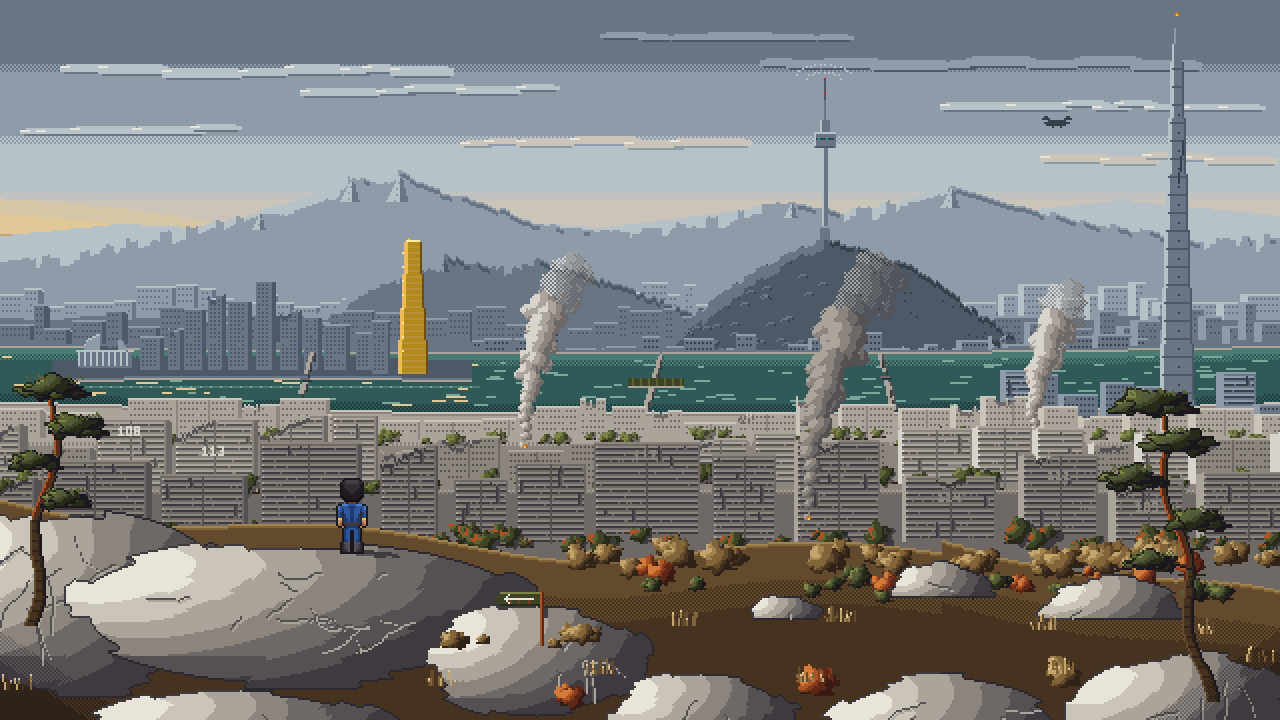
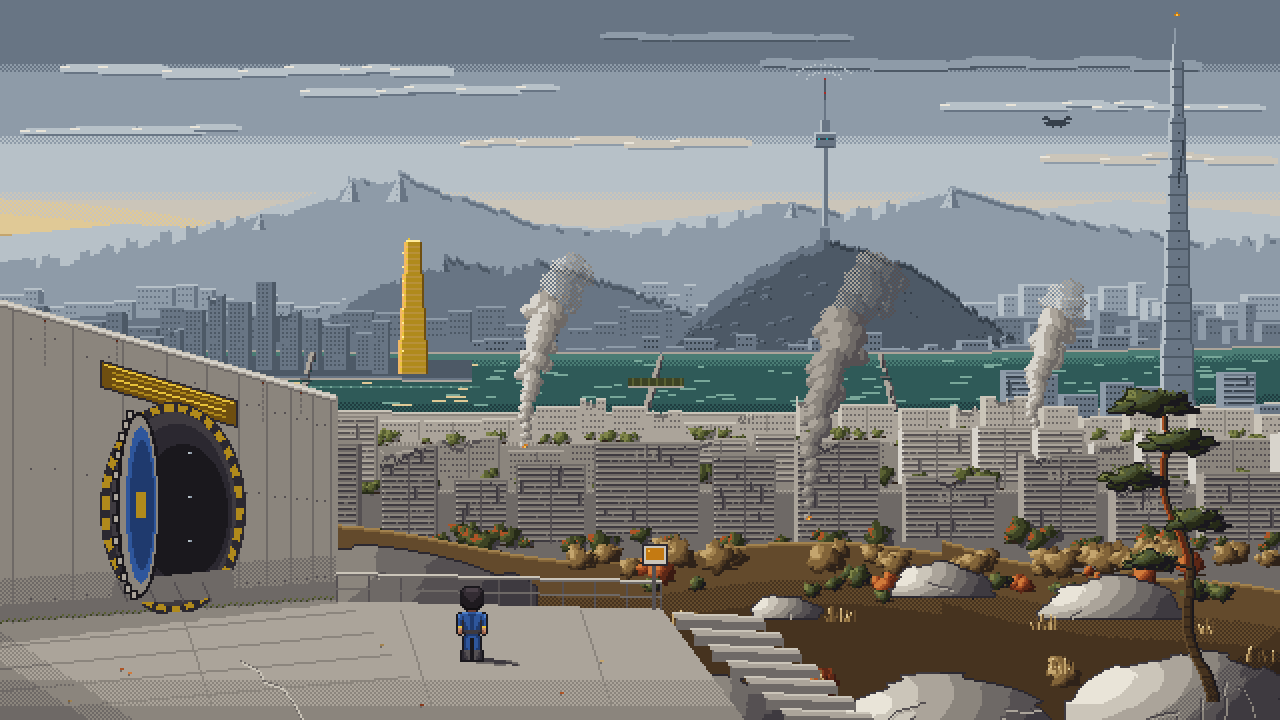
볼트 문 글자가 문과 함께 돌도록 수정, 대표 그림에 볼트 출구 추가
- 톱니 방폭문: 8프레임 반복 회전(톱니 1칸 30도, 글자는 제자리로 튐)을
  버리고 1회 개방 동작으로 바꿈. 굴러간 거리/반지름만큼 판 전체(톱니·볼트·
  위험 띠·S-07 글자)가 같은 각도로 돈다. 개방 섬광 GIF도 같은 각도를 씀.
- 대표 그림: 방금 나온 S-07 출구를 왼쪽 앞에 배치(SD-09a L-R01-01).
  콘크리트 옹벽(거푸집 이음·폼타이 구멍·물때·이끼), 원형 정문과 위험 띠,
  안쪽으로 굴러 비킨 톱니 문, 동판, 데크(신축 이음·균열·낙엽·옹벽 그늘),
  끝단 난간, 비탈로 내려가는 계단, 출구 점검표 단말. 주인공은 데크 끝.

Claude-Session: https://claude.ai/code/session_01AB2Pu8KtgEfTfn2XzBJpW9

Changed region(s): [[0.0, 0.3972, 0.6875, 1.0]]

diff --git a/art/tools/keyart.py b/art/tools/keyart.py
@@ -644,6 +644,121 @@ def foreground(cv):
     return top_rock
 
 
+def vault_exit(cv):
+    """The S-07 gate the protagonist just walked out of (SD-09a L-R01-01 ②): concrete retaining wall with the round
+    portal, the gear door rolled aside inside it, the bronze plate, the 6x4 deck with its far-edge railing,
+    12 steps down the slope and the exit checklist terminal. Seen obliquely from behind-left; sun from the west."""
+    from PIL import ImageDraw
+    d = ImageDraw.Draw(cv.img)
+    T = lambda t: C(t)
+    # retaining wall (옹벽): near and tall at the left, receding to the right
+    wall = [(0, 150), (168, 198), (168, 300), (0, 312)]
+    d.polygon(wall, fill=T("P06"))
+    x, step = 6, 30.0
+    while x < 168:                                          # formwork panel joints, closer together as they recede
+        top = 150 + x * 48 / 168
+        bot = 312 - x * 12 / 168
+        d.line([x, top + 4, x, bot], fill=T("P05"))
+        for k in range(3):                                   # form-tie holes in each panel
+            ty = top + 18 + k * (bot - top - 30) / 2
+            for hx in (x + step * 0.3, x + step * 0.7):
+                if hx < 166:
+                    cv.put(hx, ty, "P04")
+        x += step; step *= 0.86
+    for xx in range(0, 168):                                 # damp, darker lower third
+        bot = 312 - xx * 12 / 168
+        for yy in range(int(bot) - 22, int(bot)):
+            if cv.get(xx, yy)[:3] == P.rgb("P06") and ((xx + yy) % 2 or yy > bot - 10):
+                cv.put(xx, yy, "P05")
+    for xx in range(0, 168):                                 # cap: sunlit top edge + shadow under the lip
+        ty = 150 + xx * 48 / 168
+        cv.put(xx, ty, "P08"); cv.put(xx, ty + 1, "R01.a"); cv.put(xx, ty + 2, "P07"); cv.put(xx, ty + 3, "P05")
+    for sx, ln in ((22, 40), (58, 26), (131, 34), (150, 20)):          # rust/water streaks from the cap
+        ty = 150 + sx * 48 / 168 + 4
+        for k in range(ln):
+            if k % 3 != 2:
+                cv.put(sx, ty + k, "P05" if k < ln * 0.6 else "P06")
+        cv.put(sx, ty, "P24")
+    for xx in range(0, 168, 3):                              # moss at the foot
+        by = 312 - xx * 12 / 168
+        cv.put(xx, by - 1, "P29"); cv.put(xx + 1, by - 2, "P30")
+    # bronze plate '서울 볼트 S-07 관악 / 한결건설 시공'
+    d.polygon([(50, 180), (118, 200), (118, 213), (50, 193)], fill=T("P47"), outline=T("P02"))
+    d.line([(52, 182), (116, 201)], fill=T("P49"))
+    for k in range(3):
+        d.line([(56, 186 + k * 3), (112, 202 + k * 3)], fill=T("P48") if k != 1 else T("P49"))
+    # round portal (oblique ellipse) with the hazard ring, dark tunnel, lamps inside
+    cx, cy, rx, ry = 86, 254, 31, 48
+    d.ellipse([cx - rx - 5, cy - ry - 5, cx + rx + 5, cy + ry + 5], fill=T("P02"))
+    for a in range(0, 360, 12):                              # hazard chevrons
+        ra, rb = math.radians(a), math.radians(a + 6)
+        d.polygon([(cx + (rx + 4) * math.cos(ra), cy + (ry + 4) * math.sin(ra)),
+                   (cx + (rx + 4) * math.cos(rb), cy + (ry + 4) * math.sin(rb)),
+                   (cx + (rx + 1) * math.cos(rb), cy + (ry + 1) * math.sin(rb)),
+                   (cx + (rx + 1) * math.cos(ra), cy + (ry + 1) * math.sin(ra))], fill=T("P48"))
+    d.ellipse([cx - rx, cy - ry, cx + rx, cy + ry], fill=T("P03"))
+    d.ellipse([cx - rx + 6, cy - ry + 6, cx + rx - 2, cy + ry - 4], fill=T("P02"))
+    d.ellipse([cx - rx + 14, cy - ry + 16, cx + rx - 4, cy + ry - 12], fill=T("P01"))
+    for ly in (226, 248, 270):                               # ceiling lamps down the tunnel
+        cv.put(cx + 8, ly, "P15"); cv.put(cx + 9, ly, "P14")
+    d.polygon([(cx - rx + 2, cy + ry - 12), (cx + rx - 2, cy + ry - 18), (cx + rx, cy + ry - 4), (cx - rx, cy + ry)],
+              fill=T("P05"))                                  # tunnel floor grating catching outside light
+    for k in range(4):
+        d.line([(cx - rx + 4 + k * 14, cy + ry - 11), (cx - rx + 8 + k * 14, cy + ry - 2)], fill=T("P04"))
+    # the gear door, rolled aside inside the portal: seen nearly edge-on, teeth on its rim, a sliver of 'S-07'
+    gx, gy, grx, gry = cx - 17, cy - 2, 9, 44
+    d.ellipse([gx - grx - 2, gy - gry - 2, gx + grx + 2, gy + gry + 2], fill=T("P01"))
+    d.ellipse([gx - grx, gy - gry, gx + grx, gy + gry], fill=T("P06"))
+    d.ellipse([gx - grx + 3, gy - gry + 5, gx + grx - 1, gy + gry - 5], fill=T("P45"))
+    d.ellipse([gx - grx + 5, gy - gry + 12, gx + grx - 2, gy + gry - 12], fill=T("P44"))
+    d.rectangle([gx - 1, gy - 6, gx + 3, gy + 6], fill=T("P48"))
+    for a in range(100, 261, 14):                            # teeth on the visible (left) rim
+        ra = math.radians(a)
+        tx, ty = gx + (grx + 2) * math.cos(ra), gy + (gry + 2) * math.sin(ra)
+        d.rectangle([tx - 2, ty - 2, tx + 1, ty + 2], fill=T("P07"), outline=T("P01"))
+    # deck (6x4 tiles), lit by the low western sun; the wall throws a shadow band onto it
+    deck = [(0, 312), (168, 300), (330, 304), (372, 360), (0, 360)]
+    d.polygon(deck, fill=T("P07"))
+    for k in range(1, 5):                                    # expansion joints
+        y0 = 312 + k * 11
+        d.line([(0, y0), (168 + k * 9, 300 + k * 11 - 6)], fill=T("P06"))
+    for jx in (90, 200, 290):
+        d.line([(jx, 305), (jx + 18, 360)], fill=T("P06"))
+    for xx in range(0, 372):                                 # weathered, darker toward the viewer
+        for yy in range(340, 360):
+            if cv.get(xx, yy)[:3] == P.rgb("P07") and ((xx + yy) % 2 or yy > 352):
+                cv.put(xx, yy, "P06")
+    crack = [(120, 330), (128, 334), (131, 340), (140, 343), (146, 351), (150, 359)]
+    for (ax, ay), (bx, by) in zip(crack, crack[1:]):
+        d.line([(ax, ay), (bx, by)], fill=T("P05"))
+        d.line([(ax + 1, ay + 1), (bx + 1, by + 1)], fill=T("P08"))
+    for lx, ly, t in ((60, 334, "P26"), (64, 336, "P27"), (190, 322, "P20"), (280, 346, "P26"), (300, 330, "P21"),
+                      (210, 352, "P25"), (34, 350, "P20")):    # fallen leaves (late October)
+        cv.put(lx, ly, t); cv.put(lx + 1, ly, t); cv.put(lx, ly + 1, "P05")
+    for xx in range(0, 170):                                 # wall shadow
+        top = 312 - xx * 12 / 168
+        for yy in range(int(top), int(top) + 10 - xx // 20):
+            if cv.get(xx, yy)[:3] == P.rgb("P07"):
+                cv.put(xx, yy, "P06")
+    # far-edge railing (galvanised pipe)
+    for k in range(11):
+        t = k / 10
+        x0, y0 = 168 + (330 - 168) * t, 300 + 4 * t
+        d.line([(x0, y0), (x0, y0 - 13)], fill=T("P04")); cv.put(x0 - 1, y0 - 13, "P07")
+    d.line([(168, 287), (330, 291)], fill=T("P05")); d.line([(168, 286), (330, 290)], fill=T("P08"))
+    d.line([(168, 294), (330, 298)], fill=T("P05"))
+    # 12 steps down the slope from the deck's right edge (the nearest 6 are in frame)
+    for i in range(7):
+        x0 = 336 + i * 9; y0 = 306 + i * 8
+        d.polygon([(x0, y0), (x0 + 44, y0 + 2), (x0 + 46, y0 + 5), (x0 + 2, y0 + 3)], fill=T("P07"))
+        d.polygon([(x0 + 2, y0 + 3), (x0 + 46, y0 + 5), (x0 + 46, y0 + 9), (x0 + 2, y0 + 8)], fill=T("P05"))
+        d.line([(x0, y0), (x0 + 44, y0 + 2)], fill=T("P08"))
+    # exit checklist terminal (출구 점검표 단말) at the top of the steps
+    d.rectangle([326, 280, 327, 304], fill=T("P04"))
+    d.rectangle([321, 272, 333, 282], fill=T("P08"), outline=T("P02"))
+    d.rectangle([323, 274, 331, 279], fill=T("P59")); cv.put(324, 275, "P60")
+
+
 def protagonist(cv, x, y):
     """Back-view idle frame (feet at 32,60) placed with its long western-sun shadow cast to the east."""
     fr = parse(os.path.join(ROOT, "src/sprites/pc_s07_jumpsuit_S.txt"))["idleN"]
@@ -733,12 +848,8 @@ def build():
     top_rock = foreground(cv)
     pine(cv, 604, 350, 150, 3, lean=-0.16, pads=[(0.45, -18, 13, 5), (0.58, 12, 15, 6), (0.72, -14, 16, 6),
                                                  (0.84, 8, 18, 6), (0.97, -4, 20, 7)])
-    pine(cv, 12, 312, 120, 8, lean=0.14, pads=[(0.5, 14, 12, 5), (0.66, -8, 13, 5), (0.8, 12, 15, 6),
-                                               (0.96, 2, 17, 6)])
-    signpost(cv, 270, 322)
-    px = 176
-    py = min(y for x, y in top_rock if x == px) + 3
-    protagonist(cv, px, py)
+    vault_exit(cv)
+    protagonist(cv, 236, 330)
     vignette(cv)
     return cv.img
 

diff --git a/art/tools/tiles_s07.py b/art/tools/tiles_s07.py
@@ -539,14 +539,22 @@ def planter():
 
 
 # ---------------------------------------------------------------- gear door (192x192, 8 frames)
-def gear_door(frame=0, frames=8, teeth=12):
-    """톱니 방폭문: rolling cog door. One tooth period over 8 frames -> seamless roll loop.
+ROLL_PX = 210            # how far the door rolls aside when it opens (V-00)
+DOOR_R = 92              # rolling radius (tooth tips)
+
+
+def gear_door(frame=0, frames=8, teeth=12, angle=None):
+    """톱니 방폭문: rolling cog door, 8 frames = one opening roll (not a loop). The whole plate - teeth, bolts,
+    hazard ring and the 'S-07' number - turns by the angle that matches the distance rolled
+    (angle = distance / radius), so the number turns exactly with the door.
     Drawn analytically per angle (no runtime rotation, SD-16 §3.8)."""
     S = 192
     img = Image.new("RGBA", (S, S), (0, 0, 0, 0))
     px = img.load()
     cx = cy = 95.5
-    rot = frame * (2 * math.pi / teeth) / frames
+    if angle is None:
+        angle = math.degrees((frame / max(1, frames - 1)) * ROLL_PX / DOOR_R)
+    rot = math.radians(angle)
     R_out, R_root, R_rim, R_hub = 92, 82, 70, 30
     light = (-0.6, -0.8)
     for y in range(S):
@@ -694,14 +702,15 @@ if __name__ == "__main__":
     sheet = sheet.crop((0, 0, W, min(520, y + 200)))
     sheet.save(os.path.join(out, "10_tiles_s07.png"))
     upscale(sheet, 3).save(os.path.join(out, "10_tiles_s07_x3.png"))
-    # gear door roll strip (8 frames)
+    # gear door opening roll: 8 frames, the door travels ROLL_PX to the right while turning distance/radius
     strip = Image.new("RGBA", (8 * 196, 196), C("P10"))
     for f in range(8):
         strip.alpha_composite(gear_door(f), (f * 196 + 2, 2))
     strip.save(os.path.join(out, "10_gear_door_8f.png"))
     frames = []
-    for f in range(8):
-        b = Image.new("RGBA", (196, 196), C("P10")); b.alpha_composite(gear_door(f), (2, 2))
+    for f in list(range(8)) + [7] * 6:
+        b = Image.new("RGBA", (196 + ROLL_PX, 196), C("P10"))
+        b.alpha_composite(gear_door(f), (2 + int(ROLL_PX * f / 7), 2))
         frames.append(upscale(b, 2).convert("P", palette=Image.ADAPTIVE))
-    frames[0].save(os.path.join(out, "10_gear_door.gif"), save_all=True, append_images=frames[1:], duration=80, loop=0)
+    frames[0].save(os.path.join(out, "10_gear_door.gif"), save_all=True, append_images=frames[1:], duration=110, loop=0)
     print("ok")

diff --git a/art/tools/effects.py b/art/tools/effects.py
@@ -344,8 +344,8 @@ def vault_door_gif():
         im = room.copy()
         # door rolls to the right over the first 6 frames
         roll = min(1.0, k / 6)
-        door = TS.gear_door(k % 8)
-        dx = int(roll * 210)
+        dx = int(roll * TS.ROLL_PX)
+        door = TS.gear_door(angle=math.degrees(dx / TS.DOOR_R))      # turns exactly with the distance rolled
         hole = int(roll * 96)
         # light through the opening: white disc growing behind the door
         if k >= 2:
